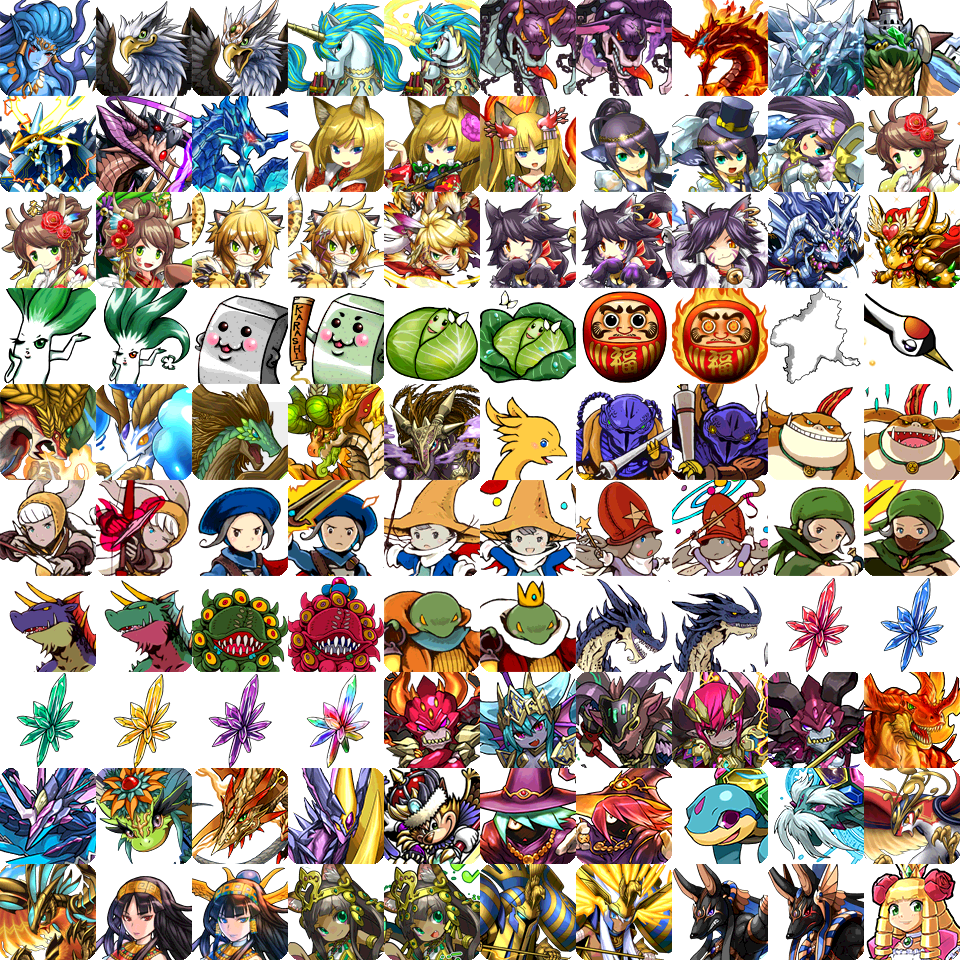
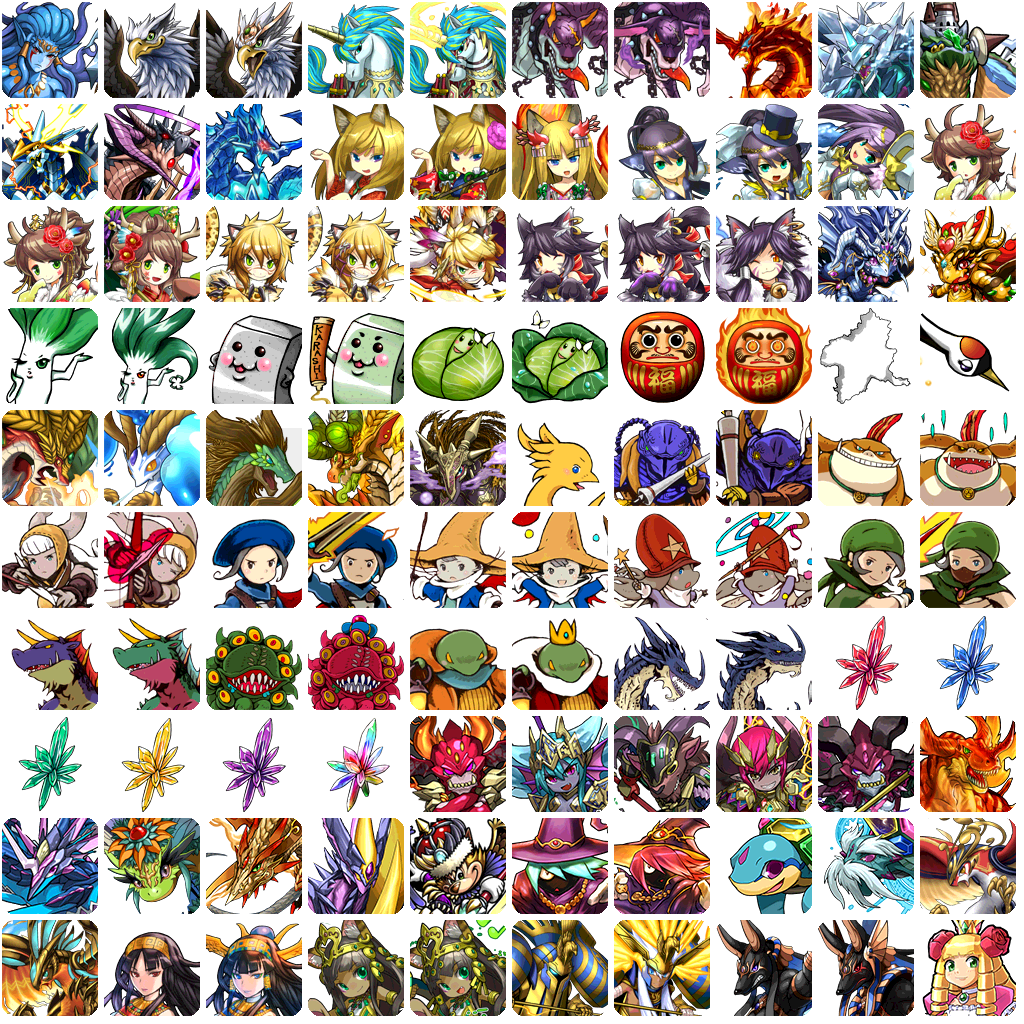
listview recycle, rework images for work with original image sheets

diff --git a/PAD Search/MainPage.xaml b/PAD Search/MainPage.xaml
@@ -25,7 +25,7 @@
             </Frame>
         </StackLayout>
 
-        <ListView x:Name="list" ItemsSource="{Binding LoadedMonsters}"
+        <ListView x:Name="list" ItemsSource="{Binding LoadedMonsters}" CachingStrategy="RecycleElement"
                   SelectionMode="None" SeparatorVisibility="None" HasUnevenRows="True">
             <ListView.Header>
                 <Frame HeightRequest="10" BackgroundColor="Transparent" Margin="0" Padding="0"/>
@@ -52,7 +52,9 @@
                                         CornerRadius="7" VerticalOptions="Start">
                                         <AbsoluteLayout Background="#686868">
                                             <forms:CachedImage Source="{Binding ImageFile}"
-                                                AbsoluteLayout.LayoutBounds="{Binding ImageBounds}"/>
+                                                AbsoluteLayout.LayoutBounds="0, 0, 1, 1"
+                                                AbsoluteLayout.LayoutFlags="All"
+                                                Transformations="{Binding ImageTransform}"/>
 
                                             <forms:CachedImage Source="{src:ImageResource PAD_Search.Images.CARDFRAME2.png}"
                                                 AbsoluteLayout.LayoutBounds="{Binding FrameBounds1}"/>

diff --git a/PAD Search/Models/Monster.cs b/PAD Search/Models/Monster.cs
@@ -1,4 +1,5 @@
-using FFImageLoading.Work;
+using FFImageLoading.Transformations;
+using FFImageLoading.Work;
 using System;
 using System.Collections.Generic;
 using System.Diagnostics;
@@ -13,6 +14,7 @@ namespace PAD_Search.Models
         private int imageCols = 10;
         public static List<Skill> skills = new List<Skill>();
         private Rectangle frameDefaultBounds = new Rectangle(1, 1, 7, 4);
+        // OLD
         public Rectangle ImageBounds
         {
             get
@@ -21,6 +23,29 @@ namespace PAD_Search.Models
                 var imageY = (int)Math.Floor(i%100 / (double)imageCols);
                 var imageX = i % imageCols;
                 return new Rectangle(imageX / 9.0, imageY / 9.0, imageCols, imageCols);
+            }
+        }
+
+        public List<ITransformation> ImageTransform
+        {
+            get
+            {
+                var i = Id - 1;
+                var row = (int)Math.Floor(i%100 / (double)imageCols);
+                var col = i % imageCols;
+                var centeredRow = -(5 - row);
+                var centeredCol = -(5 - col);
+
+                var relativeCellSize = 0.099609375; // (96 + 6) / 1024
+                var relativeCenterOffset = 0.046875; // (1024 / 2) / 96
+                var yOffset = relativeCellSize * centeredRow + relativeCenterOffset;
+                var xOffset = relativeCellSize * centeredCol + relativeCenterOffset;
+
+                var zoom = 10.666667; // 1024 / 96
+                return new List<ITransformation>
+                {
+                    new CropTransformation(zoom, xOffset, yOffset, 1f, 1f)
+                };
             }
         }
 

diff --git a/PAD Search/MainPage.xaml.cs b/PAD Search/MainPage.xaml.cs
@@ -1,4 +1,5 @@
 using FFImageLoading.Forms;
+using FFImageLoading.Transformations;
 using PAD_Search.Models;
 using PAD_Search.ViewModels;
 using System;
@@ -13,9 +14,11 @@ using System.Text.Json;
 using System.Threading.Tasks;
 using Xamarin.Forms;
 using System.Diagnostics;
+using Xamarin.Forms.Xaml;
 
 namespace PAD_Search
 {
+    [XamlCompilation(XamlCompilationOptions.Compile)]
     public partial class MainPage : ContentPage
     {
 
